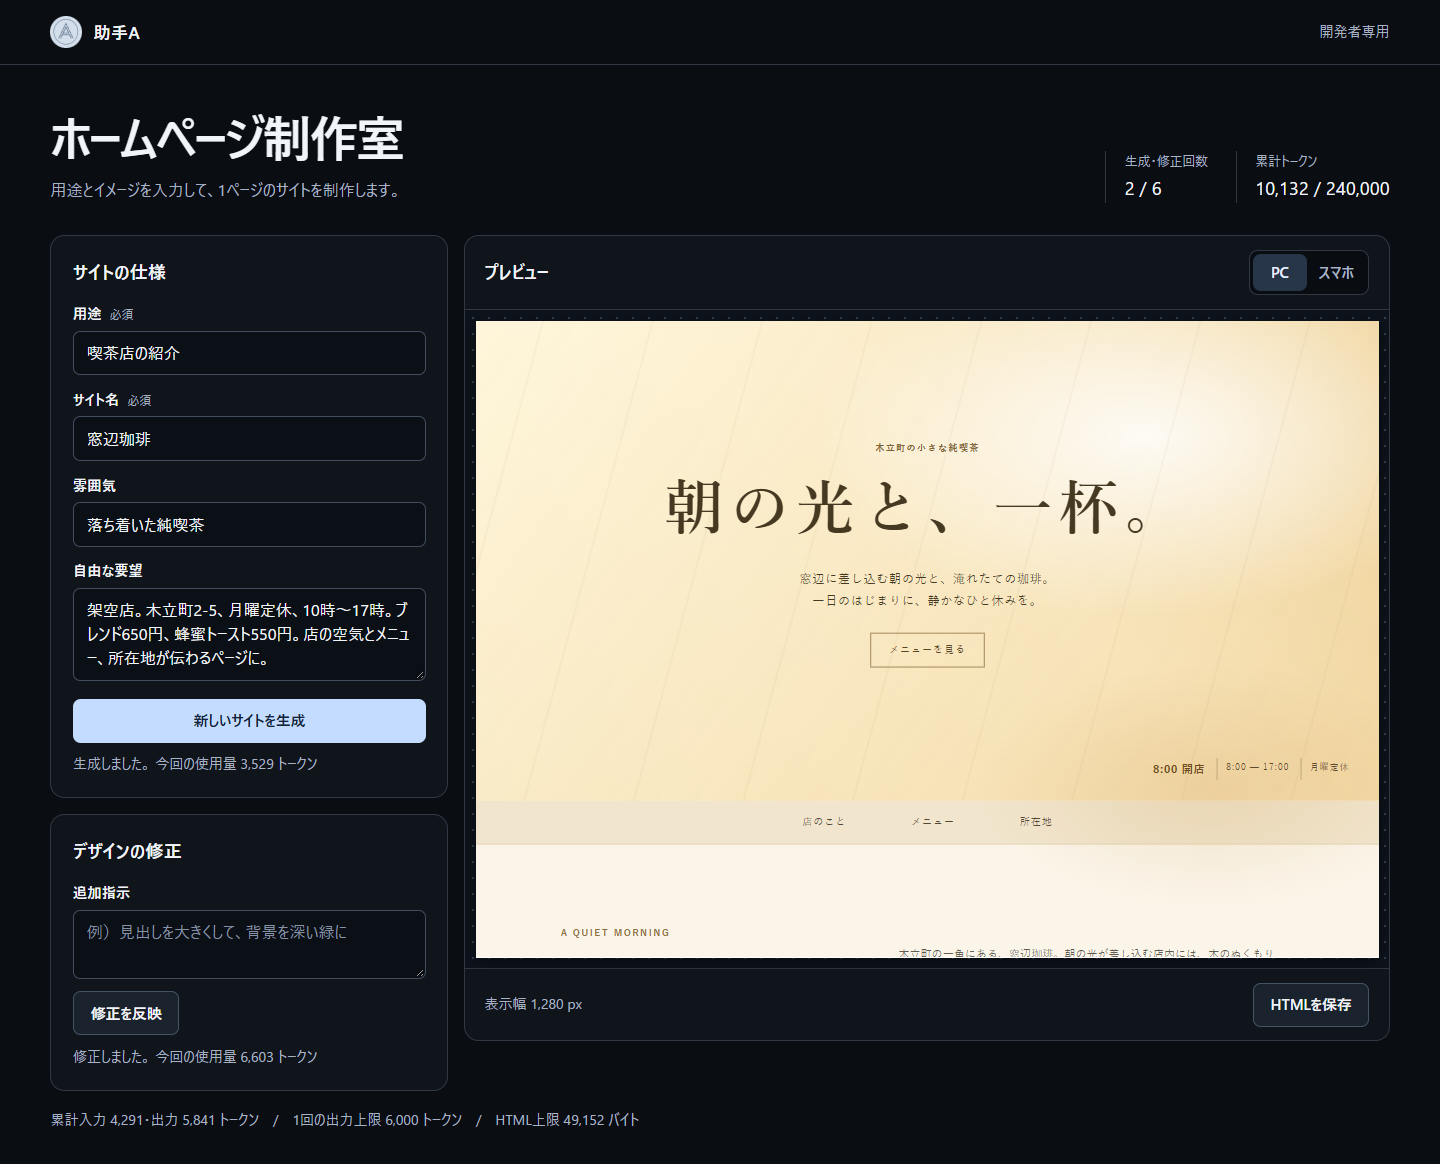
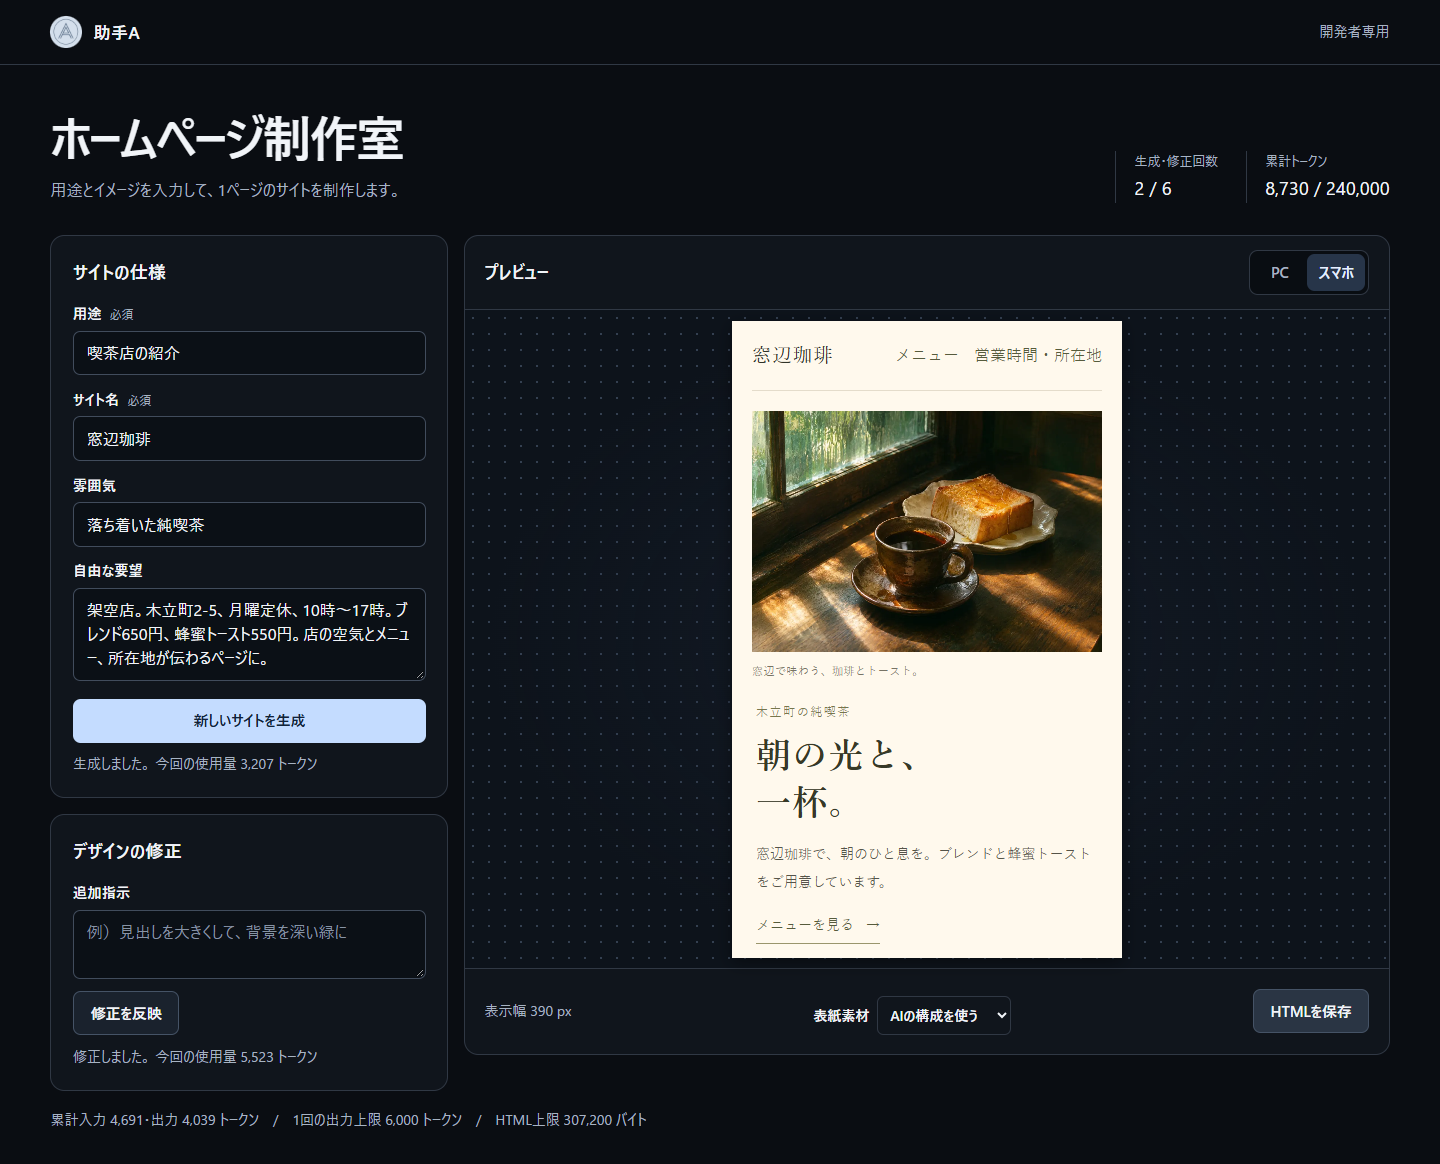
[CF-Pages-Skip] 用途別の図版と無課金の表紙編集を制作室に追加

diff --git a/.studio/ui/artwork.js b/.studio/ui/artwork.js
@@ -1,0 +1,83 @@
+const artwork = {
+  coffee: { alt: "窓辺の光を受ける珈琲とトースト", caption: "珈琲とトーストのイメージ" },
+  concert: { alt: "音のうねりをリボンの曲線と色で表した図版", caption: "音の波を重ねた公演イメージ" },
+  architecture: { alt: "中庭を囲む住まいの模型を斜め上から見た構成", caption: "中庭のある住宅の模型イメージ" },
+};
+
+const plateCSS = `
+.studio-art-plate{min-width:0;width:100%;align-self:center}
+.studio-art-plate.studio-art-standalone{max-width:68rem;margin:clamp(1rem,3vw,2.5rem) auto}
+.studio-art-plate>.studio-art-figure{display:block;position:static;margin:0;padding:0;width:100%;height:auto;border:0}
+.studio-art-figure>img{display:block;position:static;width:100%;height:auto;aspect-ratio:3/2;object-fit:cover}
+.studio-art-figure>figcaption{display:block;position:static;background:transparent;color:inherit;text-align:end;margin:0;padding:.5rem 0;font:inherit;font-size:.8rem;line-height:1.5}
+.studio-art-plate>details{border-top:1px solid currentColor;padding:.4rem 0 0}
+.studio-art-plate>details>summary{display:list-item;width:fit-content;cursor:pointer;font-size:.9rem;line-height:1.8}
+.studio-art-plate>details[open]>summary{margin-bottom:.65rem}
+`;
+
+async function readArtwork(choice) {
+  const response = await fetch("/studio/art/" + choice + ".webp", { credentials: "same-origin" });
+  if (!response.ok) throw new Error("制作素材を読み込めませんでした。");
+  const blob = await response.blob();
+  if (blob.type !== "image/webp") throw new Error("制作素材の形式を確認できませんでした。");
+  return new Promise((resolve, reject) => {
+    const reader = new FileReader();
+    reader.onload = () => resolve(reader.result);
+    reader.onerror = () => reject(new Error("制作素材を読み込めませんでした。"));
+    reader.readAsDataURL(blob);
+  });
+}
+
+export async function composeArtwork(html, choice = "auto") {
+  if (choice === "auto") return html;
+  if (!Object.hasOwn(artwork, choice)) throw new Error("制作素材を選んでください。");
+  const art = artwork[choice];
+  const src = await readArtwork(choice);
+  const doc = new DOMParser().parseFromString(html, "text/html");
+  const originalImage = doc.querySelector("img");
+  if (originalImage) {
+    if (originalImage.getAttribute("src") === src) return html;
+    originalImage.src = src;
+    originalImage.alt = art.alt;
+    const figure = originalImage.closest("figure");
+    if (figure?.hasAttribute("aria-label")) figure.setAttribute("aria-label", art.caption);
+    const caption = figure?.querySelector("figcaption");
+    if (caption && !caption.querySelector("[id], a")) caption.textContent = art.caption;
+  } else {
+    const heading = doc.querySelector("h1");
+    if (!heading) throw new Error("素材を配置する見出しが見つかりません。");
+    const hero = heading.closest("section,article") ?? heading.closest("header");
+    const diagram = hero?.querySelector('[role="img"]');
+    const plate = doc.createElement("div");
+    plate.className = "studio-art-plate";
+    const figure = doc.createElement("figure");
+    figure.className = "studio-art-figure";
+    const img = doc.createElement("img");
+    img.src = src;
+    img.alt = art.alt;
+    const caption = doc.createElement("figcaption");
+    caption.textContent = art.caption;
+    figure.append(img, caption);
+    plate.append(figure);
+    if (diagram && !diagram.contains(heading)) {
+      diagram.replaceWith(plate);
+      const details = doc.createElement("details");
+      const summary = doc.createElement("summary");
+      summary.textContent = diagram.getAttribute("aria-label")?.includes("平面図") ? "平面図を見る" : "図解を見る";
+      details.append(summary, diagram);
+      plate.append(details);
+    } else {
+      plate.classList.add("studio-art-standalone");
+      (hero ?? heading).after(plate);
+    }
+    const style = doc.createElement("style");
+    style.textContent = plateCSS;
+    doc.head.append(style);
+  }
+
+  // Early text-only exports already have a restrictive CSP. Allow this embedded
+  // WebP when a developer deliberately adds art to such a page.
+  const policy = doc.querySelector('meta[http-equiv="Content-Security-Policy"]');
+  if (policy && !policy.content.includes("img-src")) policy.content += "; img-src data:";
+  return "<!doctype html>\n" + doc.documentElement.outerHTML;
+}

diff --git a/.studio/ui/studio.js b/.studio/ui/studio.js
@@ -1,3 +1,5 @@
+import { composeArtwork } from './artwork.js';
+
 const byId = (id) => document.getElementById(id);
 const briefForm = byId("brief-form");
 const revisionForm = byId("revision-form");
@@ -5,6 +7,8 @@ const canvas = byId("canvas");
 const viewport = byId("viewport");
 const frame = byId("preview");
 const revision = byId("revision");
+const artwork = byId("artwork");
+const artStatus = byId("artwork-status");
 const number = new Intl.NumberFormat("ja-JP");
 
 let currentSite = null;
@@ -18,7 +22,8 @@ function updateControls() {
   byId("brief-fields").disabled = busy;
   byId("revise").disabled = busy || !remaining || !currentSite;
   revision.disabled = busy || !remaining || !currentSite;
-  byId("download").disabled = !currentSite;
+  byId("download").disabled = busy || !currentSite;
+  artwork.disabled = busy || !currentSite;
 }
 
 function showLedger(ledger) {
@@ -67,13 +72,39 @@ function showMessage(element, message, isError = false) {
   element.textContent = message;
 }
 
+async function displayArtwork(choice) {
+  const html = await composeArtwork(currentSite.modelHtml, choice);
+  if (new Blob([html]).size > limits.maxHtmlBytes) throw new Error("表紙を含むHTMLが保存サイズの上限を超えます。");
+  // Give the opaque sandbox its own document URL so #links scroll inside it.
+  frame.src = "data:text/html;charset=utf-8," + encodeURIComponent(html);
+  currentSite.html = html;
+  currentSite.choice = choice;
+  artwork.value = choice;
+}
+
+artwork.addEventListener("change", async () => {
+  if (busy || !currentSite) return;
+  busy = true;
+  updateControls();
+  try {
+    await displayArtwork(artwork.value);
+    showMessage(artStatus, "表紙素材を反映しました。API使用量の追加はありません。");
+  } catch (error) {
+    artwork.value = currentSite.choice;
+    showMessage(artStatus, error.message || "表紙素材を反映できませんでした。", true);
+  } finally {
+    busy = false;
+    updateControls();
+  }
+});
+
 async function generate(isRevision) {
   if (busy || !remaining || (isRevision && !currentSite)) return;
   const status = byId(isRevision ? "revision-status" : "generate-status");
   const brief = isRevision ? currentSite.brief : Object.fromEntries(new FormData(briefForm));
   const body = { brief };
   if (isRevision) {
-    body.previousHtml = currentSite.html;
+    body.previousHtml = currentSite.modelHtml;
     body.revision = revision.value.trim();
   }
   busy = true;
@@ -89,9 +120,15 @@ async function generate(isRevision) {
     if (data.ledger) showLedger(data.ledger);
     if (!response.ok) throw new Error(data.error || "生成に失敗しました。");
     if (typeof data.html !== "string" || !data.html) throw new Error("HTMLを受信できませんでした。");
-    // Give the opaque sandbox its own document URL so #links scroll inside it.
-    frame.src = "data:text/html;charset=utf-8," + encodeURIComponent(data.html);
-    currentSite = { brief, html: data.html };
+    const choice = isRevision ? currentSite.choice : "auto";
+    currentSite = { brief, modelHtml: data.html };
+    showMessage(artStatus, "");
+    try {
+      await displayArtwork(choice);
+    } catch {
+      await displayArtwork("auto");
+      showMessage(artStatus, "選んだ表紙を読み込めなかったため、AIの構成で表示しました。", true);
+    }
     canvas.hidden = false;
     byId("empty").hidden = true;
     fitPreview();

diff --git a/.studio/ui/index.html b/.studio/ui/index.html
@@ -66,8 +66,17 @@
         </div>
         <div class="preview-foot">
           <span class="dimension" id="dimension">表示幅 1,280 px</span>
+          <label class="cover-choice" for="artwork">表紙素材
+            <select id="artwork" disabled>
+              <option value="auto">AIの構成を使う</option>
+              <option value="coffee">珈琲とトースト</option>
+              <option value="concert">公演グラフィック</option>
+              <option value="architecture">中庭住宅の模型</option>
+            </select>
+          </label>
           <button id="download" class="secondary" type="button" disabled>HTMLを保存</button>
         </div>
+        <p id="artwork-status" class="feedback cover-feedback" role="status"></p>
       </section>
       <section class="panel revision-panel" aria-labelledby="revision-title">
         <h2 id="revision-title">デザインの修正</h2>

diff --git a/.studio/ui/studio.css b/.studio/ui/studio.css
@@ -95,6 +95,9 @@ button:focus-visible, input:focus-visible, textarea:focus-visible, iframe:focus-
 .viewport { position: relative; overflow: hidden; background: white; box-shadow: 0 .3rem 1rem #0006; }
 iframe { position: absolute; inset: 0 auto auto 0; display: block; border: 0; transform-origin: top left; background: white; }
 .dimension { font-size: .875rem; color: var(--muted); }
+.cover-choice { display: flex; align-items: center; gap: .5rem; font-size: .875rem; }
+.cover-choice select { color: var(--text); background: var(--panel); border: 1px solid var(--line); border-radius: .4rem; padding: .5rem; font: inherit; }
+.cover-feedback:not(:empty) { padding: 0 1.2rem .8rem; margin: 0; }
 .limits { padding: 1.15rem 0 2rem; }
 @media (max-width: 57rem) {
   .intro { align-items: start; flex-direction: column; padding-top: 2rem; }
